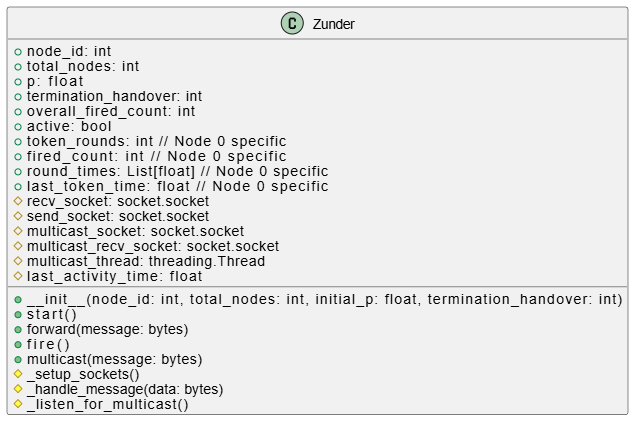
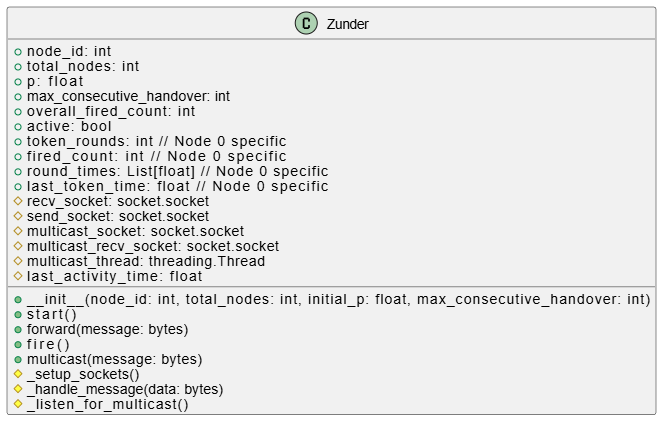
rename termination_handover to max_consecutive_misfires

Changed region(s): [[0.0, 0.0911, 0.9969, 0.972], [0.4361, 0.0304, 0.5607, 0.0911]]

diff --git a/Uebung1/Aufgabe2/Zunder.py b/Uebung1/Aufgabe2/Zunder.py
@@ -46,12 +46,12 @@ class Zunder:
 
         # Configuration values (host sets these, client receives them)
         self.initial_p_config = initial_p
-        self.termination_handover_config = max_consecutive_handover
+        self.max_consecutive_misfires_config = max_consecutive_handover
         self.expected_nodes_config = expected_nodes
 
         # Live simulation parameters
         self.p = 0.0
-        self.termination_handover = 0
+        self.max_consecutive_misfires = 0
 
         self.peers = {}  # Stores node_id: (ip, game_port) for all nodes
         self.client_tcp_connections = {}  # For host: client_node_id: tcp_conn for lobby
@@ -131,7 +131,7 @@ class Zunder:
     def _host_lobby(self):
         self.node_id = 0
         self.p = self.initial_p_config
-        self.termination_handover = self.termination_handover_config
+        self.max_consecutive_misfires = self.max_consecutive_misfires_config
 
         my_ip = get_local_ip()
         with self.lobby_lock:
@@ -192,7 +192,7 @@ class Zunder:
             if self.total_nodes == self.expected_nodes_config:
                 print("Host: All expected nodes have joined. \n")
                 # Prepare and send the start signal to all connected clients
-                start_message_payload = f"START_SIMULATION:{self.p}:{self.termination_handover}:{json.dumps(self.peers)}"
+                start_message_payload = f"START_SIMULATION:{self.p}:{self.max_consecutive_misfires}:{json.dumps(self.peers)}"
                 start_message = start_message_payload.encode()
 
                 print(f"{40*'='}")
@@ -209,7 +209,7 @@ class Zunder:
                         client_conn.close()  # Close TCP control connection
 
                 print(
-                    f"  Config: p={self.p}, max_consecutive_misfires={self.termination_handover}, total_nodes={self.total_nodes}"
+                    f"  Config: p={self.p}, max_consecutive_misfires={self.max_consecutive_misfires}, total_nodes={self.total_nodes}"
                 )
                 print(f"  Peers: {self.peers}")  # Can be verbose
                 print(f"{40*'='} \n ")
@@ -338,7 +338,7 @@ class Zunder:
             if start_message.startswith("START_SIMULATION:"):
                 parts = start_message.split(":", 3)
                 self.p = float(parts[1])
-                self.termination_handover = int(parts[2])
+                self.max_consecutive_misfires = int(parts[2])
                 peers_json_str = parts[3]
 
                 loaded_peers = json.loads(peers_json_str)
@@ -350,7 +350,7 @@ class Zunder:
                 print(f"\n {40*'='}")
                 print(f"Client (Node {self.node_id}): Received START_SIMULATION.")
                 print(
-                    f"  Config: p={self.p}, max_consecutive_misfires={self.termination_handover}, total_nodes={self.total_nodes}"
+                    f"  Config: p={self.p}, max_consecutive_misfires={self.max_consecutive_misfires}, total_nodes={self.total_nodes}"
                 )
                 print(f"  Peers: {self.peers}")  # Can be verbose
                 print(f"{40*'='} \n ")
@@ -382,10 +382,6 @@ class Zunder:
 
         # Setup UDP socket earlier in __join_lobby or __host_lobby in order to block the UDP Port for others
         # self._setup_game_socket()
-
-        # print(
-        #     f"Node {self.node_id}: Simulation started. p={self.p:.6f}, termination_handover={self.termination_handover}, total_nodes={self.total_nodes}"
-        # )
 
         if self.node_id == 0:  # Host-specific initializations
             self.token_rounds = 0
@@ -522,13 +518,13 @@ class Zunder:
         else:
             consecutive_quiet_handover += 1
             print(
-                f"Node {self.node_id} did not fire. p={self.p:.6f}, quiet_rounds={consecutive_quiet_handover}/{self.termination_handover}"
+                f"Node {self.node_id} did not fire. p={self.p:.6f}, quiet_rounds={consecutive_quiet_handover}/{self.max_consecutive_misfires}"
             )
 
-        # Check termination condition (based on this node's configured termination_handover)
-        if self.termination_handover <= consecutive_quiet_handover:
+        # Check termination condition (based on this node's configured max_consecutive_misfires)
+        if self.max_consecutive_misfires <= consecutive_quiet_handover:
             print(
-                f"\n Node {self.node_id} initiating termination: reached limit of consecutive misfires {self.termination_handover}."
+                f"\n Node {self.node_id} initiating termination: reached limit of consecutive misfires {self.max_consecutive_misfires}."
             )
             self.unicast_to_all(TERMINATE)  # Send TERMINATE to all other nodes
             time.sleep(0.5)  # Allow time for TERMINATE to propagate

diff --git a/Uebung1/Aufgabe2/start.py b/Uebung1/Aufgabe2/start.py
@@ -15,7 +15,12 @@ from Zunder import Zunder, get_local_ip  # Import get_local_ip if it's in Zunder
 
 
 def run_node_thread(
-    port, is_host, host_ip=None, initial_p=0.5, termination_handover=3, expected_nodes=1
+    port,
+    is_host,
+    host_ip=None,
+    initial_p=0.5,
+    max_consecutive_misfires=3,
+    expected_nodes=1,
 ):
     """Runs a Zunder node in a separate thread."""
     try:
@@ -24,7 +29,7 @@ def run_node_thread(
             is_host=is_host,
             host_ip=host_ip,
             initial_p=initial_p,
-            max_consecutive_handover=termination_handover,
+            max_consecutive_handover=max_consecutive_misfires,
             expected_nodes=expected_nodes,
         )
         node.run()  # This will block until the node's simulation ends or lobby fails
@@ -127,13 +132,13 @@ def main():
         ).ask()
         initial_p = float(initial_p_str) if initial_p_str else 0.5
 
-        term_handover_str = q.text(
+        max_misfires = q.text(
             "Enter maximum consecutive misfires (e.g., 3): ",
             default="5",
             validate=lambda x: (x.isdigit() and int(x) > 0)
             or "Please enter a positive integer.",
         ).ask()
-        term_handover = int(term_handover_str) if term_handover_str else 5
+        max_consecutive_misfires = int(max_misfires) if max_misfires else 5
 
         expected_nodes_str = q.text(
             "Enter total number of nodes expected (including this host, min 1): ",
@@ -144,7 +149,7 @@ def main():
         expected_nodes = int(expected_nodes_str) if expected_nodes_str else 2
 
         print(
-            f"Starting Host on port {lobby_port} with p={initial_p}, max_consecutive_misfires={term_handover}, n={expected_nodes}"
+            f"Starting Host on port {lobby_port} with p={initial_p}, max_consecutive_misfires={max_consecutive_misfires}, n={expected_nodes}"
         )
         print("For Joiners:")
         print(f"    IP: {my_ip}")
@@ -155,7 +160,7 @@ def main():
             port=lobby_port,
             is_host=True,
             initial_p=initial_p,
-            termination_handover=term_handover,
+            max_consecutive_misfires=max_consecutive_misfires,
             expected_nodes=expected_nodes,
         )
 
@@ -180,7 +185,7 @@ def main():
             port=lobby_port,
             is_host=False,
             host_ip=host_ip_to_join,
-            # Client does not set p, term_handover, expected_nodes; it gets them from host
+            # Client does not set p, max_consecutive_misfires, expected_nodes; it gets them from host
         )
 
     # The run_node_thread will block, so the script effectively waits here

diff --git a/Uebung1/Aufgabe1/Zunder.py b/Uebung1/Aufgabe1/Zunder.py
@@ -24,13 +24,13 @@ class Zunder:
         node_id: int,
         total_nodes: int,
         initial_p: float,
-        termination_handover: int = 5,
+        max_consecutive_misfires: int = 5,
     ):
 
         self.node_id = node_id
         self.total_nodes = total_nodes
         self.p = initial_p
-        self.termination_handover = termination_handover
+        self.max_consecutive_misfires = max_consecutive_misfires
         self.overall_fired_count = 0
 
         if self.node_id == 0:
@@ -123,8 +123,8 @@ class Zunder:
 
             # Received token
             current_time = time.time()
-            consecutive_quite_handover = 0
-            consecutive_quite_handover = int(data.decode().split(":")[-1])
+            consecutive_misfires = 0
+            consecutive_misfires = int(data.decode().split(":")[-1])
 
             if self.node_id == 0:
                 # Node 0 is responsible for collecting statistics
@@ -139,16 +139,16 @@ class Zunder:
 
             if should_fire:
                 self.fire()
-                consecutive_quite_handover = 0
+                consecutive_misfires = 0
                 time.sleep(0.5)  # Give time for other Nodes to watch the firework
             else:
-                consecutive_quite_handover += 1
+                consecutive_misfires += 1
                 print(f"Node {self.node_id} did not fire this round p={self.p:.6f}")
 
             # Check termination condition
-            if self.termination_handover <= consecutive_quite_handover:
+            if self.max_consecutive_misfires <= consecutive_misfires:
                 print(
-                    f"Node {self.node_id} initiating termination after {str(consecutive_quite_handover)} quiet rounds"
+                    f"Node {self.node_id} initiating termination after {str(consecutive_misfires)} quiet rounds"
                 )
                 self.multicast(TERMINATE)
                 time.sleep(0.5)  # Give time for multicast to propagate
@@ -159,7 +159,7 @@ class Zunder:
             self.p = self.p / 2
 
             # Forward token to next node
-            msg = TOKEN + b":" + str(consecutive_quite_handover).encode()
+            msg = TOKEN + b":" + str(consecutive_misfires).encode()
             self.forward(msg)
 
         elif data == TERMINATE:

diff --git a/Uebung1/Aufgabe1/start.py b/Uebung1/Aufgabe1/start.py
@@ -14,8 +14,8 @@ from Zunder import Zunder
 
 
 # Define a function to run a node
-def run_node(node_id, num_nodes, initial_p, termination_handover):
-    node = Zunder(node_id, num_nodes, initial_p, termination_handover)
+def run_node(node_id, num_nodes, initial_p, max_consecutive_misfires):
+    node = Zunder(node_id, num_nodes, initial_p, max_consecutive_misfires)
     node.start()
 
 

diff --git a/Uebung1/Aufgabe1/README.md b/Uebung1/Aufgabe1/README.md
@@ -39,7 +39,7 @@ Die Klasse Zunder stellt einen Node des Ringnetzwerks dar.
 ![UML Zunder](./resources/Zunder_UML.png)
 
 Über die Methode `_setup_sockets()` werden die vier nötigen Sockets für den Node erstellt: je zwei für die Multicast- und Unicast-Kommunikation (Senden und Empfangen).  
-In einem Thread lauscht der Node nach Multicast-Nachrichten. Auf diesem Wege erhält er entweder die Nachricht, dass ein anderer Node gezündet hat, oder dass das Ringnetzwerk terminiert wurde. Die Methode `start()` startet diesen Thread und wartet im Anschluss auf Unicast-Nachrichten vom Vorgänger. Die Überreichung des Tokens erfolgt immer in Kombination mit der Anzahl der aktuellen aufeinanderfolgenden Fehlzündungen. Zündet der Node, setzt er diesen Wert auf 0 zurück und leitet das Token weiter an den nächsten Knoten. Kommt es zu einer Fehlzündung, prüft der Knoten anhand der Variable `termination_handover`, ob er den Ring terminieren muss. Zur Terminierung sendet er einen Multicast an alle Ringteilnehmer. Der `multicast_thread` empfängt diese Nachricht und setzt im Anschluss die Variable `active` auf `False`, wodurch der Prozess beendet wird.
+In einem Thread lauscht der Node nach Multicast-Nachrichten. Auf diesem Wege erhält er entweder die Nachricht, dass ein anderer Node gezündet hat, oder dass das Ringnetzwerk terminiert wurde. Die Methode `start()` startet diesen Thread und wartet im Anschluss auf Unicast-Nachrichten vom Vorgänger. Die Überreichung des Tokens erfolgt immer in Kombination mit der Anzahl der aktuellen aufeinanderfolgenden Fehlzündungen. Zündet der Node, setzt er diesen Wert auf 0 zurück und leitet das Token weiter an den nächsten Knoten. Kommt es zu einer Fehlzündung, prüft der Knoten anhand der Variable `max_consecutive_misfires` (in folgenden Aufgaben in max_consecutive_misfires unbenannt), ob er den Ring terminieren muss. Zur Terminierung sendet er einen Multicast an alle Ringteilnehmer. Der `multicast_thread` empfängt diese Nachricht und setzt im Anschluss die Variable `active` auf `False`, wodurch der Prozess beendet wird.
 
 In dieser Aufgabe erhebt lediglich Node 0 Statistiken über das Ringnetzwerk. Bei jedem Tokenempfang erhöht er die Variable `token_rounds` und stoppt die Rundenzeit, um sie im Array `round_times` einzutragen. So werden immer nur komplettierte Runden gemessen – die Runde, in der der Ring terminiert wird, wird also hier nicht erfasst. Außerdem zählt Node 0 die Anzahl der empfangenen Multicasts, die ihn über das Zünden eines anderen Knotens benachrichtigen (`fired_count`). Am Ende liest das Skript `start.py` diese Statistiken aus den Variablen von Node 0 aus und schreibt sie in die Konsole. Mit `start.py` können außerdem mehrere Experimente mit unterschiedlichen Knotenanzahlen direkt hintereinander ausgeführt werden (siehe Konsolen-Parameter-Abfrage beim Start).
 
